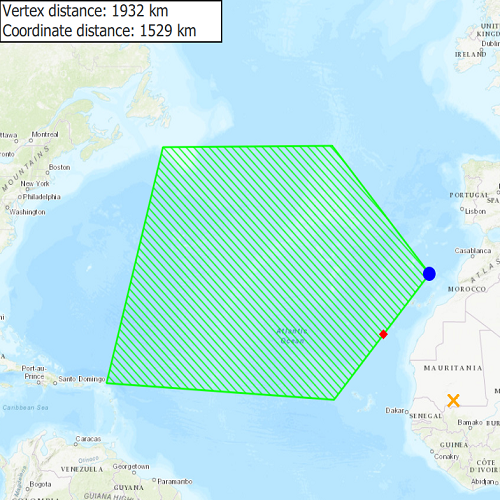
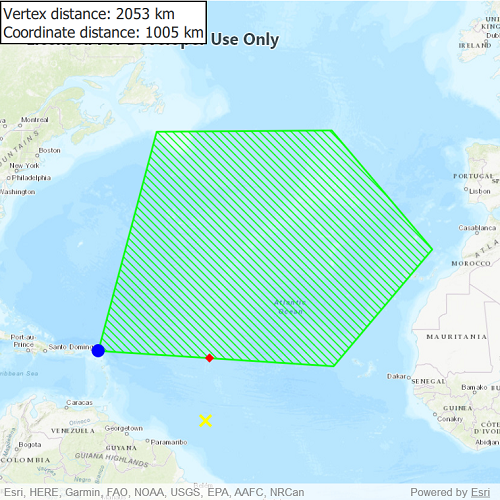
Update UI for NearestVertex (#1020)
* Edited QML so UI matches C++ - updated to yellow cross and removed padding form rectangle

diff --git a/ArcGISRuntimeSDKQt_QMLSamples/Geometry/NearestVertex/NearestVertex.qml b/ArcGISRuntimeSDKQt_QMLSamples/Geometry/NearestVertex/NearestVertex.qml
@@ -54,7 +54,7 @@ Rectangle {
             id:  clickedPointGraphic
             SimpleMarkerSymbol {
                 style: Enums.SimpleMarkerSymbolStyleX
-                color: "orange"
+                color: "yellow"
                 size: 15
             }
         }
@@ -133,7 +133,6 @@ Coordinate distance: ${(nearestCoordinateResult.distance/1000.0).toFixed()} km` 
         anchors {
             top: parent.top
             left: parent.left
-            margins: 15
         }
         visible: true
         color: "white"

diff --git a/ArcGISRuntimeSDKQt_QMLSamples/Geometry/NearestVertex/README.md b/ArcGISRuntimeSDKQt_QMLSamples/Geometry/NearestVertex/README.md
@@ -10,7 +10,7 @@ Determine the shortest distance between a location and the boundary of an area. 
 
 ## How to use the sample
 
-Click anywhere on the map. An orange cross will show at that location. A blue circle will show the polygon's nearest vertex to the point that was clicked. A red diamond will appear at the coordinate on the geometry that is nearest to the point that was clicked. If clicked inside the geometry, the red and orange markers will overlap. The information box showing distance between the clicked point and the nearest vertex/coordinate will be updated with every new location clicked.
+Click anywhere on the map. An yellow cross will show at that location. A blue circle will show the polygon's nearest vertex to the point that was clicked. A red diamond will appear at the coordinate on the geometry that is nearest to the point that was clicked. If clicked inside the geometry, the red and yellow markers will overlap. The information box showing distance between the clicked point and the nearest vertex/coordinate will be updated with every new location clicked.
 
 ## How it works
 
